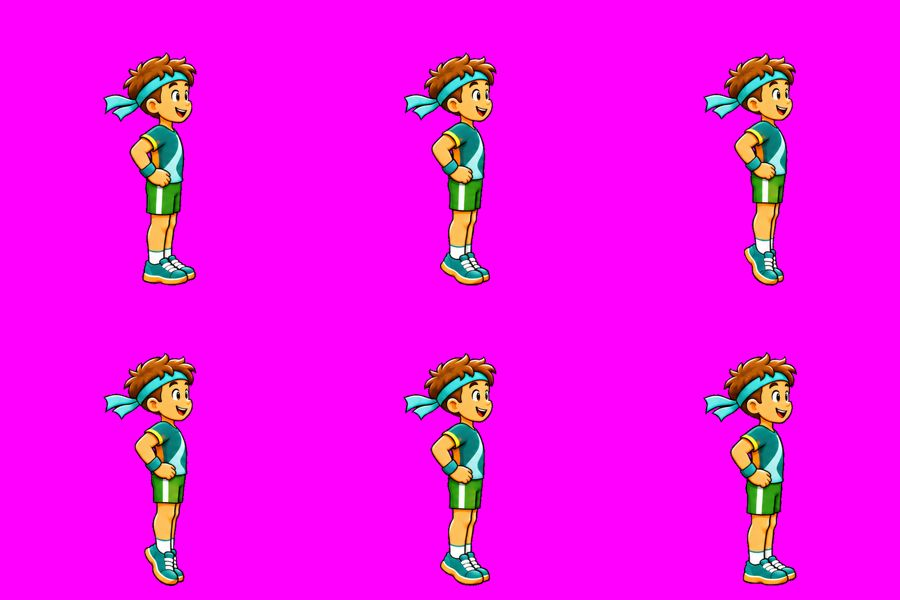
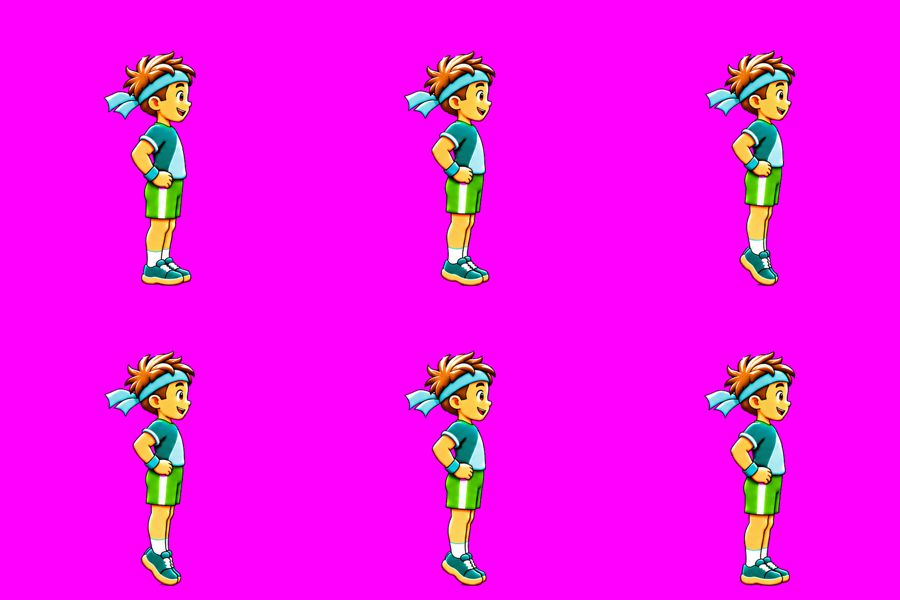
0.31.2: redrawn cd_chest, wu_ankle_rolls, wu_calf_raises
Claude-Session: https://claude.ai/code/session_015MgUfxYvuaf2H4JGRA2gxD

diff --git a/web/sw.js b/web/sw.js
@@ -1,5 +1,5 @@
 // Offline-first service worker. VERSION is kept equal to version.json by scripts/bump-version.mjs (a unit test enforces it).
-const VERSION = '0.31.1';
+const VERSION = '0.31.2';
 const CACHE = `stepup-${VERSION}`;
 const SHELL = ['./', 'index.html', 'manifest.webmanifest', 'version.json', 'icon.svg', 'css/packs.css', 'css/app.css',
   'js/app.js', 'js/routePlan.js', 'js/planner.js', 'js/planApi.js', 'js/ui/mapScreen.js', 'js/ui/planner.js', 'js/theme-boot.js', 'js/util.js', 'js/i18n.js', 'js/native.js', 'js/icons.js', 'js/brand.js', 'js/brandData.js', 'js/iconData.js', 'js/geo.js', 'js/workout.js', 'js/metronome.js', 'js/cadence.js', 'js/audio.js', 'js/format.js', 'js/store.js', 'js/ui/home.js', 'js/plan.js', 'js/indicators.js', 'js/appVersion.js', 'js/art.js', 'js/voice.js', 'js/records.js', 'js/facts.js', 'js/actions.js', 'js/guide.js', 'js/strings08.js', 'js/strings09.js', 'js/strings10.js', 'js/strings11.js', 'js/appShare.js', 'js/changelog.js', 'js/ui/shareApp.js', 'js/ui/whatsnew.js', 'js/permissions.js', 'js/ui/permissions.js', 'js/characterData.js', 'js/puppetRig.js', 'js/ui/puppet.js', 'js/ui/character.js', 'art/character/walk.webp', 'art/character/run.webp', 'art/character/pose-idle.webp', 'art/character/pose-jump.webp', 'art/character/pose-cheer.webp', 'art/character/pose-wave.webp', 'art/character/pose-rest.webp', 'art/character/pose-stretch.webp', 'art/character/pose-medal.webp', 'art/character/pose-trophy.webp', 'art/character/pose-podium.webp', 'art/character/pose-point.webp', 'art/character/pose-think.webp', 'art/character/pose-sit.webp', 'art/character/pose-sleep.webp', 'art/character/pose-rain.webp', 'js/weatherAnim.js', 'js/weatherAnimData.js', 'js/ui/skynow.js', 'js/ui/hourdetail.js', 'js/ui/progress.js', 'js/ui/imap.js', 'js/ui/mapviewer.js', 'js/ui/marks.js', 'js/exercises.js', 'js/exerciseData.js', 'js/ui/exercises.js', 'js/strings12.js', 'js/ui/directions.js', 'js/nav.js', 'js/ui/weather.js', 'art/weather-anim/clear_day.webp', 'art/weather-anim/clear_night.webp', 'art/weather-anim/drizzle_day.webp', 'art/weather-anim/fog_day.webp', 'art/weather-anim/freezing_rain_day.webp', 'art/weather-anim/hail_day.webp', 'art/weather-anim/heavy_rain_day.webp', 'art/weather-anim/mostly_clear_day.webp', 'art/weather-anim/mostly_clear_night.webp', 'art/weather-anim/overcast_day.webp', 'art/weather-anim/partly_cloudy_day.webp', 'art/weather-anim/partly_cloudy_night.webp', 'art/weather-anim/rain_day.webp', 'art/weather-anim/snow_day.webp', 'art/weather-anim/thunderstorm_day.webp', 'js/ui/guide.js', 'art/workout/banner-afternoon-dark.svg', 'art/workout/banner-afternoon-light.svg', 'art/workout/banner-evening-dark.svg', 'art/workout/banner-evening-light.svg', 'art/workout/banner-morning-dark.svg', 'art/workout/banner-morning-light.svg', 'art/workout/banner-night-dark.svg', 'art/workout/banner-night-light.svg', 'art/workout/card-forest-dark.svg', 'art/workout/card-forest-light.svg', 'art/workout/card-ocean-dark.svg', 'art/workout/card-ocean-light.svg', 'art/workout/card-sunrise-dark.svg', 'art/workout/card-sunrise-light.svg', 'art/workout/count-1-dark.svg', 'art/workout/count-1-light.svg', 'art/workout/count-2-dark.svg', 'art/workout/count-2-light.svg', 'art/workout/count-3-dark.svg', 'art/workout/count-3-light.svg', 'art/workout/count-4-dark.svg', 'art/workout/count-4-light.svg', 'art/workout/count-5-dark.svg', 'art/workout/count-5-light.svg', 'art/workout/count-go-dark.svg', 'art/workout/count-go-light.svg', 'art/workout/hint-double-tap-dark.svg', 'art/workout/hint-double-tap-light.svg', 'art/workout/hint-volume-keys-dark.svg', 'art/workout/hint-volume-keys-light.svg', 'js/ui/workoutShare.js', 'js/shareCard.js', 'js/metrics.js', 'js/gpx.js', 'js/daypart.js', 'js/challenge.js', 'art/celebrate/avatar-frame-dark.svg', 'art/celebrate/avatar-frame-light.svg', 'art/celebrate/confetti-circle-dark.svg', 'art/celebrate/confetti-circle-light.svg', 'art/celebrate/confetti-curl-dark.svg', 'art/celebrate/confetti-curl-light.svg', 'art/celebrate/confetti-rectangle-dark.svg', 'art/celebrate/confetti-rectangle-light.svg', 'art/celebrate/confetti-star-dark.svg', 'art/celebrate/confetti-star-light.svg', 'art/celebrate/confetti-triangle-dark.svg', 'art/celebrate/confetti-triangle-light.svg', 'art/celebrate/distance-record-dark.svg', 'art/celebrate/distance-record-light.svg', 'art/celebrate/fastest-kilometre-dark.svg', 'art/celebrate/fastest-kilometre-light.svg', 'art/celebrate/forest-dark.svg', 'art/celebrate/forest-light.svg', 'art/celebrate/laurel-dark.svg', 'art/celebrate/laurel-light.svg', 'art/celebrate/longest-streak-dark.svg', 'art/celebrate/longest-streak-light.svg', 'art/celebrate/medal-dark.svg', 'art/celebrate/medal-light.svg', 'art/celebrate/most-workouts-week-dark.svg', 'art/celebrate/most-workouts-week-light.svg', 'art/celebrate/ocean-dark.svg', 'art/celebrate/ocean-light.svg', 'art/celebrate/pace-record-dark.svg', 'art/celebrate/pace-record-light.svg', 'art/celebrate/podium-floor-dark.svg', 'art/celebrate/podium-floor-light.svg', 'art/celebrate/podium-steps-dark.svg', 'art/celebrate/podium-steps-light.svg', 'art/celebrate/rays-dark.svg', 'art/celebrate/rays-light.svg', 'art/celebrate/ribbon-dark.svg', 'art/celebrate/ribbon-light.svg', 'art/celebrate/sunrise-dark.svg', 'art/celebrate/sunrise-light.svg', 'art/celebrate/trophy-dark.svg', 'art/celebrate/trophy-light.svg', 'js/podiumCard.js', 'js/ui/podium.js', 'js/mapView.js', 'js/ui/maptiles.js', 'js/backup.js', 'js/ui/backup.js', 'art/badges/almost-distance-dark.svg', 'art/badges/almost-distance-light.svg', 'art/badges/almost-record-dark.svg', 'art/badges/almost-record-light.svg', 'art/badges/faster-last-dark.svg', 'art/badges/faster-last-light.svg', 'art/badges/fastest-km-dark.svg', 'art/badges/fastest-km-light.svg', 'art/badges/new-record-dark.svg', 'art/badges/new-record-light.svg', 'art/badges/passed-distance-dark.svg', 'art/badges/passed-distance-light.svg', 'art/onboarding/caught-up-dark.svg', 'art/onboarding/caught-up-light.svg', 'art/onboarding/no-plan-dark.svg', 'art/onboarding/no-plan-light.svg', 'art/onboarding/no-routes-dark.svg', 'art/onboarding/no-routes-light.svg', 'art/onboarding/no-workouts-dark.svg', 'art/onboarding/no-workouts-light.svg', 'art/onboarding/offline-dark.svg', 'art/onboarding/offline-light.svg', 'art/onboarding/welcome-dark.svg', 'art/onboarding/welcome-light.svg', 'art/weather/clear-dark.svg', 'art/weather/clear-light.svg', 'art/weather/cloudy-dark.svg', 'art/weather/cloudy-light.svg', 'art/weather/cold-dark.svg', 'art/weather/cold-light.svg', 'art/weather/hot-dark.svg', 'art/weather/hot-light.svg', 'art/weather/rain-dark.svg', 'art/weather/rain-light.svg', 'art/weather/windy-dark.svg', 'art/weather/windy-light.svg', 'js/update.js', 'js/strings07.js', 'js/ui/about.js', 'js/strings06.js', 'js/ui/plan.js', 'js/schedule.js', 'js/widgetData.js', 'js/syncNative.js', 'js/strings05.js', 'js/route.js', 'js/routeReco.js', 'js/strings04.js', 'js/ui/routes.js', 'js/ui/livemap.js', 'js/forecast.js', 'js/reco.js', 'js/weatherApi.js', 'js/strings03.js', 'js/ui/reco.js', 'js/stats.js', 'js/steps.js', 'js/effort.js', 'js/reminders.js', 'js/alerts.js', 'js/search.js', 'js/charts.js', 'js/reminderLoop.js', 'js/strings02.js', 'js/ui/dashboard.js', 'js/ui/alerts.js', 'js/ui/search.js', 'js/ui/notify.js', 'js/ui/settings.js', 'js/ui/history.js', 'js/ui/workout.js', 'js/ui/rhythm.js',

diff --git a/web/js/changelog.js b/web/js/changelog.js
@@ -1,5 +1,8 @@
 // "What is new", in the app's two languages: user-facing bullets only, newest first. docs/CHANGELOG.md is the developer copy (a unit test keeps the two in step).
 export const CHANGES = [
+  { v: '0.31.2',
+    en: ['Redrawn animations for the chest opener, ankle rolls and calf raises.'],
+    he: ['אנימציות מחודשות לפתיחת החזה, לסיבובי קרסול ולהרמות תאומים.'] },
   { v: '0.31.1',
     en: ['Redrawn animations for the figure-4 glute stretch and the skipping drill.'],
     he: ['אנימציות מחודשות למתיחת הישבן (figure-4) ולתרגיל הדילוגים.'] },

diff --git a/web/js/appVersion.js b/web/js/appVersion.js
@@ -1,2 +1,2 @@
 // The version of the code that is running (kept equal to version.json by scripts/bump-version.mjs; a unit test enforces it).
-export const APP_VERSION = '0.31.1';
+export const APP_VERSION = '0.31.2';

diff --git a/docs/CONTEXT.md b/docs/CONTEXT.md
@@ -6,8 +6,8 @@ Read this first in a new session. It says what the product is, where everything 
 **StepUp** (repo `ohadsam/distance_analyzer`): a walking and running tracker. One vanilla-JS web app (`web/`, no build step, no runtime dependencies) shipped as a **PWA** (GitHub Pages) and as a thin **Android WebView app** (`android/`, same `web/` folder as assets). Hebrew (RTL) is the default, English is chosen in Settings. No server, no account; data stays on the device. Branch `main` is the primary branch.
 Owner's standing rules live in `.claude/skills/release-checklist/SKILL.md` (section 0). Requests and their status: `docs/REQUESTS.md`. Plan: `docs/ROADMAP.md`.
 
-## Status (0.31.1)
-Done: **looping full-figure drawn animations for all 24 exercises (0.31.1; 4 weak ones to redo: calf raises, hip circles, ankle rolls, chest), mark point, interactive maps everywhere (zoom, address search, measuring, km markers), turn-by-turn navigation with voice, written directions, progress bars, warm-up / cool-down exercises, effort chart with advice, broader global search (0.29.0)**, **a Weather card always on Home and tappable weather charts showing the hour's temperature / humidity / rain (0.28.0)**, **measuring starts when the run / walk really starts (movement detection), the weather screen with hour-by-hour humidity / rain for any place or route, animated charts (0.27.0)**, **animated weather pictures for the sky now (Home day card, Recommendations) from the illustrator's 15 animations (0.26.0)**, **steps counted all day by a quiet foreground service (the background alarm could never read the sensor) - 0.25.2, needs a phone to confirm**, **the steps widget refreshes by itself (every 15 min, on leaving the app, after restart or update) - 0.25.1, needs a phone to confirm**, **share sheet (WhatsApp, e-mail, share menu, copy) and a "what is new" window (0.25.0)**, **web app updates itself (fresh files for a new service worker, one automatic reload) (0.24.1)**, **permissions screen + start-up sheet, map / weather / planner on by default with automatic location, in-app update that installs over the app (0.24.0)**, **an illustrated character with walk / run strips and still poses (0.23.0)**, **Trail from the designer brief (10 poses, per-pose joint pivots) (0.22.0)**, **Trail V5 (15 connected poses) with the countdown and the guide (0.21.0)**, **Trail as an athlete (kit V3) on the start cards, welcome, summary and the user guide (0.20.0)**, **redesigned single-colour icons, Trail (the logo-born companion character, 8 poses) on the start cards / welcome / summary, live speed gauge, active navigation icons, calm-animations switch (0.19.0)**, **user guide (interactive tour with screenshots), search over actions / your data / the guide, a clear live map, a quiet first-run home, map screen with distance measuring, route planner by address and distance (0.18.0)**, **workout visual kit: banners, workout cards, countdown numerals, hints, number icons (0.17.0)**, **choose your workout numbers, day card, history sort/records/GPX/share picture, hands-free, countdown, wide layout (0.16.0)**, **new minimal workout screen, background voice, stop hint, sunlight mode, weekly challenge + Sunday summary, kit podium (0.15.0)**, **opt-in street map, battery optimisation, record celebration with victory photo (0.14.0)**, **backup/restore, week-bars widget, monthly summary (0.13.0)**, **rhythm coach and charts in the kit's look, folded filters, spoken cues (0.12.0)**, **kit art integrated: empty states, weather banner, indication badges, widget backgrounds, Android 12 splash (0.11.0)**, **update check, newest-APK download and share from inside the app (0.10.0)**, **two more Android widgets (last workout, next session) with a designed background (0.9.1, launcher verification pending)**, **bottom navigation, collapsible settings, lighter first dashboard, welcome card (0.9.0)**, **live in-workout indications (records, last time, faster km - 0.8.1)**, **training plans (build, week view, auto-match, gentle catch-up, reminders - 0.8.1)**, Android home-screen widgets (steps, weekly effort, measure now - 0.7.0, launcher verification pending)**, Android background (screen-off tracking, all-day steps, notifications when closed - 0.6.0, real-device verification pending)**, quick actions, routes (save, recognise, progress, suggestions, one-time, follow with ghost), tile-less live map (0.5.0)**, recommendations by weather and routine (0.4.0, opt-in network)**, workout mode (GPS distance/pace/splits, pause, lock, resume), smart rhythm coach (metronome + breathing guide), history, design foundation + StepUp brand, effort bar by age and history with deviation alerts, quality-weighted steps, dashboard (customisable widgets, filters, drill-down), alerts inbox, global search, reminders (fixed + smart nudges, while the app is open), manual weather per workout with weather-aware stats.
+## Status (0.31.2)
+Done: **looping full-figure drawn animations for all 24 exercises (0.31.2; still weak: hip circles, a modest calf raise and chest), mark point, interactive maps everywhere (zoom, address search, measuring, km markers), turn-by-turn navigation with voice, written directions, progress bars, warm-up / cool-down exercises, effort chart with advice, broader global search (0.29.0)**, **a Weather card always on Home and tappable weather charts showing the hour's temperature / humidity / rain (0.28.0)**, **measuring starts when the run / walk really starts (movement detection), the weather screen with hour-by-hour humidity / rain for any place or route, animated charts (0.27.0)**, **animated weather pictures for the sky now (Home day card, Recommendations) from the illustrator's 15 animations (0.26.0)**, **steps counted all day by a quiet foreground service (the background alarm could never read the sensor) - 0.25.2, needs a phone to confirm**, **the steps widget refreshes by itself (every 15 min, on leaving the app, after restart or update) - 0.25.1, needs a phone to confirm**, **share sheet (WhatsApp, e-mail, share menu, copy) and a "what is new" window (0.25.0)**, **web app updates itself (fresh files for a new service worker, one automatic reload) (0.24.1)**, **permissions screen + start-up sheet, map / weather / planner on by default with automatic location, in-app update that installs over the app (0.24.0)**, **an illustrated character with walk / run strips and still poses (0.23.0)**, **Trail from the designer brief (10 poses, per-pose joint pivots) (0.22.0)**, **Trail V5 (15 connected poses) with the countdown and the guide (0.21.0)**, **Trail as an athlete (kit V3) on the start cards, welcome, summary and the user guide (0.20.0)**, **redesigned single-colour icons, Trail (the logo-born companion character, 8 poses) on the start cards / welcome / summary, live speed gauge, active navigation icons, calm-animations switch (0.19.0)**, **user guide (interactive tour with screenshots), search over actions / your data / the guide, a clear live map, a quiet first-run home, map screen with distance measuring, route planner by address and distance (0.18.0)**, **workout visual kit: banners, workout cards, countdown numerals, hints, number icons (0.17.0)**, **choose your workout numbers, day card, history sort/records/GPX/share picture, hands-free, countdown, wide layout (0.16.0)**, **new minimal workout screen, background voice, stop hint, sunlight mode, weekly challenge + Sunday summary, kit podium (0.15.0)**, **opt-in street map, battery optimisation, record celebration with victory photo (0.14.0)**, **backup/restore, week-bars widget, monthly summary (0.13.0)**, **rhythm coach and charts in the kit's look, folded filters, spoken cues (0.12.0)**, **kit art integrated: empty states, weather banner, indication badges, widget backgrounds, Android 12 splash (0.11.0)**, **update check, newest-APK download and share from inside the app (0.10.0)**, **two more Android widgets (last workout, next session) with a designed background (0.9.1, launcher verification pending)**, **bottom navigation, collapsible settings, lighter first dashboard, welcome card (0.9.0)**, **live in-workout indications (records, last time, faster km - 0.8.1)**, **training plans (build, week view, auto-match, gentle catch-up, reminders - 0.8.1)**, Android home-screen widgets (steps, weekly effort, measure now - 0.7.0, launcher verification pending)**, Android background (screen-off tracking, all-day steps, notifications when closed - 0.6.0, real-device verification pending)**, quick actions, routes (save, recognise, progress, suggestions, one-time, follow with ghost), tile-less live map (0.5.0)**, recommendations by weather and routine (0.4.0, opt-in network)**, workout mode (GPS distance/pace/splits, pause, lock, resume), smart rhythm coach (metronome + breathing guide), history, design foundation + StepUp brand, effort bar by age and history with deviation alerts, quality-weighted steps, dashboard (customisable widgets, filters, drill-down), alerts inbox, global search, reminders (fixed + smart nudges, while the app is open), manual weather per workout with weather-aware stats.
 Not done / known limits: the smart "no movement" nudge works only while the app is open; Android background features are verified only by a stand-in bridge and CI; internet is used only on request: the weather forecast (opt-in, Open-Meteo), update check (GitHub), map tiles (opt-in, OpenStreetMap) and the route planner (opt-in, four public services) - its live answer is unverified (sandbox blocks the host); automatic weather *per workout* (history) is still not built; the route planner's live answers (Nominatim, FOSSGIS OSRM, Open-Meteo elevation, Overpass) are only verified against stand-ins because the sandbox blocks those hosts, and its crossing / sidewalk reading depends on how well OpenStreetMap is mapped where you are; Kotlin is only compiled in CI; sensor thresholds are tuned on synthetic data, not a real run; steps are estimated from tracked workouts (no passive counter yet).
 
 ## How to run and verify

diff --git a/docs/PENDING_CHATGPT_PROMPTS.md b/docs/PENDING_CHATGPT_PROMPTS.md
@@ -36,3 +36,4 @@ Flow: prompt written here → owner pastes it in ChatGPT → owner returns the r
 - #19 returned (4 zips, 24 exercises) and integrated in 0.31.0. Still to ask ChatGPT to redo (small follow-up prompt, not yet written): wu_skips (pink tint), cd_glute, wu_calf_raises, wu_hip_circles, wu_ankle_rolls, cd_chest.
 - #20 (`docs/prompts/ROUND20_EXERCISES_FIX6_PROMPT.md`): redo wu_skips, cd_glute, wu_calf_raises, wu_hip_circles, wu_ankle_rolls, cd_chest - pending user send; when back, integrate with `scripts/make-exercise-sprites.py` (replace those folders) and bump.
 - #20 partly returned: wu_skips and cd_glute integrated in 0.31.1; still open: wu_calf_raises, wu_hip_circles, wu_ankle_rolls, cd_chest (ask ChatGPT again for these four).
+- #20 round 3: cd_chest, wu_ankle_rolls, wu_calf_raises integrated in 0.31.2; wu_hip_circles rejected (white arrows drawn inside the frames) - ask again for a clean one with a visible hip circle and no annotations.

diff --git a/docs/CHANGELOG.md b/docs/CHANGELOG.md
@@ -1,5 +1,8 @@
 # Changelog
 
+## 0.31.2
+- `cd_chest`, `wu_ankle_rolls` and `wu_calf_raises` replaced by the illustrator's round-3 redraws (arms behind the back, a clear lifted foot with a hand on the wall, heels rising). `wu_hip_circles` was NOT taken: the redraw has white annotation arrows inside the frames, so the 0.31.0 drawing stays until a clean one arrives. Calf raises and chest are better but still modest (the heel lift is small, the clasped hands are not clearly visible).
+
 ## 0.31.1
 - `wu_skips` and `cd_glute` replaced by the illustrator's redrawn versions (round 2: clean colours, the figure-4 with the ankle on the knee). The other four requested redraws (`wu_calf_raises`, `wu_hip_circles`, `wu_ankle_rolls`, `cd_chest`) were not delivered yet and keep the 0.31.0 drawings.
 
